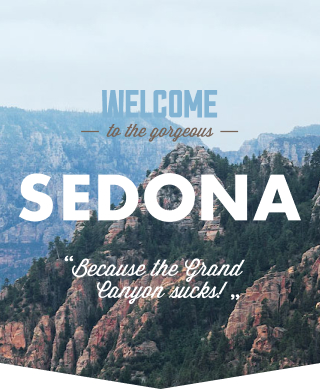
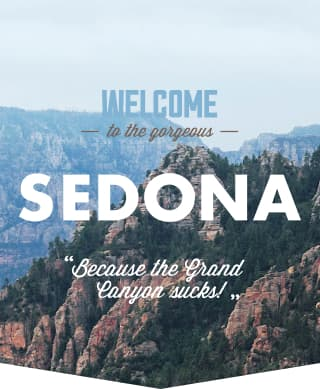
Адаптивная графика для страницы каталога

diff --git a/source/photo.html b/source/photo.html
@@ -5,6 +5,9 @@
     <meta name="viewport" content="width=device-width, initial-scale=1">
     <title>HTML Academy: Седона</title>
     <link rel="stylesheet" href="css/style.css">
+    <link rel="icon" href="favicon.ico" sizes="16x16 32x32" type="image/vnd.microsoft.icon">
+    <link rel="icon" href="img/favicon.png" sizes="16x16" type="image/png">
+    <link rel="icon" href="img/favicon.svg" sizes="any" type="image/svg+xml">
   </head>
   <body class="page__body">
     <div class="wrapper-main">
@@ -28,8 +31,11 @@
           </ul>
         </nav>
         <div class="page-header__logo">
-          <a class="page-header__link" href="index.html" aria-label="Вернуться на главную">
-            <img src="img/logotype-mobile-tablet.svg.svg" width="102" height="84" alt="Информационный сайт для туристов «Седона»">
+          <a class="page-header__link">
+            <picture>
+              <source media="(min-width: 1200px)" srcset="img/logotype-desktop.svg.svg">
+              <img src="img/logotype-mobile-tablet.svg.svg" width="102" height="84" alt="Информационный сайт для туристов «Седона»">
+            </picture>
           </a>
         </div>
       </header>
@@ -46,7 +52,11 @@
           <ul class="photo__block">
             <li class="photo__item photo__item--large">
               <a href="#">
-                <img src="img/photo-1-mobile.jpg.jpg" alt="Photo-1">
+                <picture>
+                  <source media="(min-width: 1200px)" srcset="img/photo-1-desktop.jpg 1x, img/photo-1-desktop@2x.jpg 2x">
+                  <source media="(min-width: 768px)" srcset="img/photo-1-tablet.jpg 1x, img/photo-1-tablet@2x.jpg 2x">
+                  <img src="img/photo-1-mobile.jpg" srcset="img/photo-1-mobile@2x.jpg 2x"alt="Photo-1">
+                </picture>
               </a>
               <div class="photo__comment">
                 <p class="photo__name">Народные просторы</p>
@@ -56,7 +66,11 @@
             </li>
             <li class="photo__item">
               <a href="#">
-                <img src="img/photo-2-mobile.jpg.jpg" alt="Photo-2">
+                <picture>
+                  <source media="(min-width: 1200px)" srcset="img/photo-2-desktop.jpg 1x, img/photo-2-desktop@2x.jpg 2x">
+                  <source media="(min-width: 768px)" srcset="img/photo-2-tablet.jpg 1x, img/photo-2-tablet@2x.jpg 2x">
+                  <img src="img/photo-2-mobile.jpg" srcset="img/photo-2-mobile@2x.jpg 2x"alt="Photo-2">
+                </picture>
               </a>
               <div class="photo__comment">
                 <p class="photo__name">Местная растительность</p>
@@ -66,7 +80,11 @@
             </li>
             <li class="photo__item">
               <a href="#">
-                <img src="img/photo-3-mobile.jpg.jpg" alt="Photo-3">
+                <picture>
+                  <source media="(min-width: 1200px)" srcset="img/photo-3-desktop.jpg 1x, img/photo-3-desktop@2x.jpg 2x">
+                  <source media="(min-width: 768px)" srcset="img/photo-3-tablet.jpg 1x, img/photo-3-tablet@2x.jpg 2x">
+                  <img src="img/photo-3-mobile.jpg" srcset="img/photo-3-mobile@2x.jpg 2x"alt="Photo-3">
+                </picture>
               </a>
               <div class="photo__comment">
                 <p class="photo__name">Дорога на север</p>
@@ -76,7 +94,11 @@
             </li>
             <li class="photo__item">
               <a href="#">
-                <img src="img/photo-4-mobile.jpg.jpg" alt="Photo-4">
+                <picture>
+                  <source media="(min-width: 1200px)" srcset="img/photo-4-desktop.jpg 1x, img/photo-4-desktop@2x.jpg 2x">
+                  <source media="(min-width: 768px)" srcset="img/photo-4-tablet.jpg 1x, img/photo-4-tablet@2x.jpg 2x">
+                  <img src="img/photo-4-mobile.jpg" srcset="img/photo-4-mobile@2x.jpg 2x"alt="Photo-4">
+                </picture>
               </a>
               <div class="photo__comment">
                 <p class="photo__name">Мост дьявола</p>
@@ -92,7 +114,13 @@
         </section>
         <section class="video">
           <h2 class="visually-hidden">Видеообзор</h2>
-          <img class="video__img" src="img/video-mobile.jpg.jpg" alt="Video">
+          <div class="video__img">
+            <picture>
+              <source media="(min-width: 1200px)" srcset="img/video-desktop.jpg 1x, img/video-desktop@2x.jpg 2x">
+              <source media="(min-width: 768px)" srcset="img/video-tablet.jpg 1x, img/video-tablet@2x.jpg 2x">
+              <img src="img/video-mobile.jpg" srcset="img/video-mobile@2x.jpg 2x"alt="Video">
+            </picture>
+          </div>
           <div class="video__tools">
             <button class="video__replay tools">
               <svg width="16" height="20" fill="none" xmlns="http://www.w3.org/2000/svg"><path d="M8 4V0L3 5l5 5V6c3.3 0 6 2.7 6 6s-2.7 6-6 6-6-2.7-6-6H0c0 4.4 3.6 8 8 8s8-3.6 8-8-3.6-8-8-8z" fill="#5C6870"/></svg>

diff --git a/source/form.html b/source/form.html
@@ -37,6 +37,7 @@
               <img src="img/logotype-mobile-tablet.svg.svg" width="102" height="84" alt="Информационный сайт для туристов «Седона»">
             </picture>
           </a>
+        </div>
       </header>
       <main class="page__main">
         <header class="main-header">
